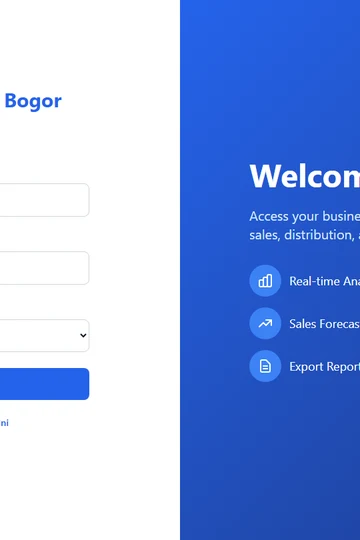
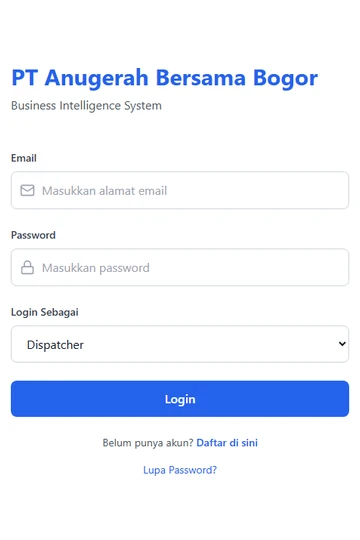
fix(round4): switch to youtube music playlist embed, fix portrait covers for pt abb and portal binusa, and update noctra branding cover

diff --git a/src/components/StudioMusic.tsx b/src/components/StudioMusic.tsx
@@ -6,8 +6,8 @@ import { Howl } from 'howler';
 import { useMusicStore } from '@/store/music-store';
 
 export default function StudioMusic() {
-  // Verified official Spotify playlist: "Deep Focus" (ambient & downtempo technical deep work, active & verified 200)
-  const playlistId = '37i9dQZF1DWZeKCadgRdKQ';
+  // Dika's official YouTube Music playlist: "Alternative Rock & Pop Punk" (140 tracks)
+  const playlistId = 'PLUtoEI1_5Qn8';
   const soundRef = useRef<Howl | null>(null);
   const { isPlaying, toggle } = useMusicStore();
 
@@ -52,7 +52,7 @@ export default function StudioMusic() {
           </h2>
 
           <p className="text-sm md:text-base text-zinc-400 font-light leading-relaxed">
-            Late-night Bandung frequency. A curated rotation of ambient electronica, lo-fi downtempo, and atmospheric soundscapes accompanying technical deep work.
+            Late-night Bandung frequency. A curated rotation of alternative rock, emo, and pop punk anthems accompanying technical deep work.
           </p>
 
           {/* Ambient Engine Control */}
@@ -76,7 +76,7 @@ export default function StudioMusic() {
 
             <span className="text-xs font-mono text-zinc-500 flex items-center gap-1.5">
               <Headphones className="w-3.5 h-3.5 text-zinc-600" />
-              SPOTIFY EMBED
+              YOUTUBE MUSIC EMBED
             </span>
           </div>
         </div>
@@ -87,24 +87,24 @@ export default function StudioMusic() {
             {/* Top Player Metadata Bar */}
             <div className="flex items-center justify-between text-xs font-mono text-zinc-400 mb-4 pb-3 border-b border-white/[0.06]">
               <div className="flex items-center gap-2">
-                <span className="w-2 h-2 rounded-full bg-emerald-400 animate-pulse" />
-                <span className="text-white font-semibold">NOCTRA // MIDNIGHT FREQUENCY</span>
+                <span className="w-2 h-2 rounded-full bg-red-500 animate-pulse" />
+                <span className="text-white font-semibold">ALTERNATIVE ROCK & POP PUNK</span>
               </div>
-              <span className="text-[10px] text-zinc-500 tracking-wider">OFFICIAL PLAYLIST</span>
+              <span className="text-[10px] text-zinc-500 tracking-wider">YOUTUBE MUSIC PLAYLIST • 140 TRACKS</span>
             </div>
 
-            {/* Spotify Embed iFrame */}
+            {/* YouTube Music Embed iFrame */}
             <div className="relative rounded-xl overflow-hidden bg-black/40">
               <iframe
-                title="NOCTRA Coding Playlist"
+                title="Alternative Rock & Pop Punk - YouTube Music Playlist"
                 data-testid="embed-iframe"
                 style={{ borderRadius: '12px' }}
-                src={`https://open.spotify.com/embed/playlist/${playlistId}?utm_source=generator&theme=0`}
+                src={`https://www.youtube.com/embed/videoseries?list=${playlistId}`}
                 width="100%"
                 height="440"
                 frameBorder={0}
                 allowFullScreen
-                allow="autoplay; clipboard-write; encrypted-media; fullscreen; picture-in-picture"
+                allow="accelerometer; autoplay; clipboard-write; encrypted-media; gyroscope; picture-in-picture; web-share"
                 loading="lazy"
               />
             </div>

diff --git a/src/components/streaming/Top10CarouselRow.tsx b/src/components/streaming/Top10CarouselRow.tsx
@@ -98,6 +98,8 @@ export default function Top10CarouselRow({ id, title, projects }: Top10CarouselR
                     src={
                       project.id === 'pt-abb-dashboard'
                         ? '/covers/pt-abb-dashboard-portrait.webp'
+                        : project.id === 'portal-ekskul-binusa'
+                        ? '/covers/portal-ekskul-binusa-portrait.webp'
                         : `/covers/${project.id}.webp`
                     }
                     alt={project.title}
